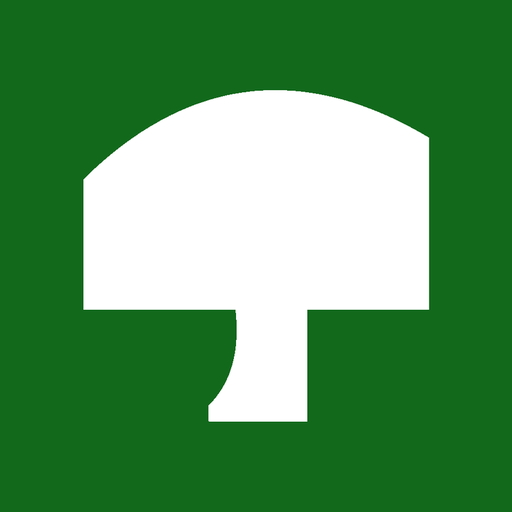
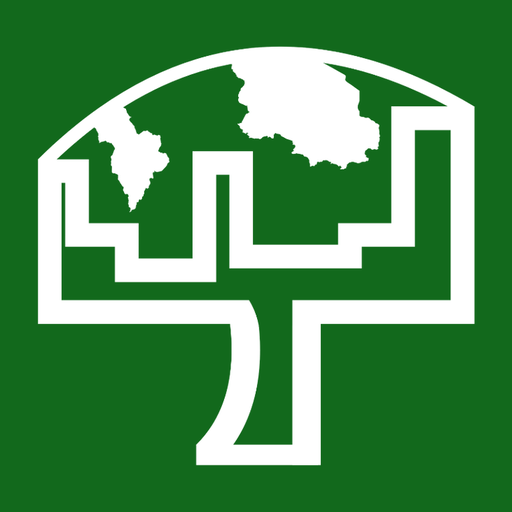
İkonu gerçek logoya döndür, kapağı bir üst seviyeye çıkar
İkon:
- Sekme ikonunu sadeleştirilmiş siluete çevirmiştim; navbar'daki detaylı
  logoyla yan yana iki farklı marka gibi duruyordu. Artık tüm boyutlar
  gerçek logodan üretiliyor (kadraja %96 oturtularak küçük boyutta da okunur).
- og-banner da aynı logoyla yenilendi.

Kapak:
- "Bizi tanıyın" kaldırıldı; tek ve net çağrı: Etkinliklerimiz
- Zeminde köşeden gelen ışık, ince film dokusu (grain) ve daha belirgin
  kontur çizgileri; düz gradyanın yapay görünümü kırıldı
- Lockup büyütüldü, tipografi sıkılaştırıldı
- Sırayla beliren giriş animasyonu ve kaydırma imi eklendi
- Animasyon .anim sınıfına bağlı: JS çalışmazsa içerik normal görünür

diff --git a/index.html b/index.html
@@ -28,94 +28,115 @@
  
 /* ── 1. KAPAK ──
    Marka bannerının dili: sola hizalı yatay lockup, akan kontur çizgileri,
-   sloganın çizgiyi delmesi. Ortalanmış şablon dizilimden bilinçli olarak kaçınıldı. */
+   sloganın çizgiyi delmesi. Ortalanmış şablon dizilimden bilinçli kaçınıldı. */
 .hero {
   position: relative; overflow: hidden;
   min-height: 100svh; display: flex; align-items: center;
-  padding: 130px 0 80px;
-  background: linear-gradient(158deg, #0d4a15 0%, #12691c 46%, #0e3d14 100%);
+  padding: 140px 0 96px;
+  background:
+    radial-gradient(120% 90% at 12% 8%, #1a7a24 0%, transparent 58%),
+    linear-gradient(158deg, #0d4a15 0%, #12691c 46%, #0b3811 100%);
 }
 .hero-lines { position: absolute; inset: 0; width: 100%; height: 100%; pointer-events: none; }
-/* Alt kenarda sitenin koyu zeminine yumuşak geçiş */
+.hero-grain {
+  position: absolute; inset: 0; width: 100%; height: 100%;
+  opacity: 0.16; mix-blend-mode: overlay; pointer-events: none;
+}
 .hero::after {
-  content: ''; position: absolute; left: 0; right: 0; bottom: 0; height: 190px;
+  content: ''; position: absolute; left: 0; right: 0; bottom: 0; height: 200px;
   background: linear-gradient(180deg, rgba(26,34,33,0) 0%, #1a2221 100%);
   pointer-events: none;
 }
-/* .hero bir flex kapsayıcı; genişlik verilmezse içeriğe göre daralıp ortalanıyor */
 .hero-inner { position: relative; z-index: 2; width: 100%; text-align: left; }
 
+/* Sırayla beliren giriş animasyonu */
+/* Animasyon yalnızca .anim sınıfı eklendiğinde çalışır.
+   JS çalışmazsa veya animasyon desteklenmezse içerik normal görünür. */
+.hero.anim .rise { animation: rise .9s cubic-bezier(.22,.75,.28,1) both; animation-delay: var(--d, 0s); }
+@keyframes rise {
+  from { opacity: 0; transform: translateY(18px); }
+  to   { opacity: 1; transform: none; }
+}
+@media (prefers-reduced-motion: reduce) {
+  .hero.anim .rise { animation: none; }
+}
+
 /* Yatay lockup */
-.hero-lockup { display: flex; align-items: center; gap: clamp(20px, 3vw, 40px); }
+.hero-lockup { display: flex; align-items: center; gap: clamp(20px, 3vw, 44px); }
 .hero-mark {
-  width: clamp(96px, 12vw, 168px); height: auto; flex-shrink: 0;
-  filter: drop-shadow(0 8px 24px rgba(0,0,0,0.28));
+  width: clamp(100px, 13vw, 186px); height: auto; flex-shrink: 0;
+  filter: drop-shadow(0 10px 30px rgba(0,0,0,0.3));
 }
 .hero-wordmark {
   display: flex; flex-direction: column;
   font-family: 'Outfit', sans-serif;
-  font-size: clamp(26px, 4.4vw, 54px);
-  font-weight: 800; line-height: 1.0;
-  letter-spacing: -0.02em; text-transform: uppercase; color: #fff;
+  font-size: clamp(27px, 4.8vw, 60px);
+  font-weight: 800; line-height: 0.98;
+  letter-spacing: -0.025em; text-transform: uppercase; color: #fff;
 }
 .hero-wordmark .wm-sm {
-  font-weight: 400; letter-spacing: 0.14em;
-  font-size: 0.46em; margin-bottom: 0.28em; opacity: 0.9;
+  font-weight: 400; letter-spacing: 0.16em;
+  font-size: 0.42em; margin-bottom: 0.34em; opacity: 0.88;
 }
 
 /* Sloganın çizgiyi deldiği şerit */
 .hero-rule {
-  display: flex; align-items: center; gap: 0;
-  margin: clamp(30px, 4vw, 48px) 0 clamp(34px, 4.5vw, 52px);
+  display: flex; align-items: center;
+  margin: clamp(34px, 4.4vw, 54px) 0 clamp(34px, 4.4vw, 50px);
   font-family: 'Montserrat', sans-serif;
   font-size: clamp(11px, 1.15vw, 14px); font-weight: 700;
-  letter-spacing: 0.2em; text-transform: uppercase; color: #fff;
+  letter-spacing: 0.22em; text-transform: uppercase; color: #fff;
 }
 .hero-rule::before, .hero-rule::after,
 .hero-rule span + span::before {
   content: ''; flex: 1 1 auto; height: 1px;
-  background: rgba(255,255,255,0.4); min-width: 18px;
+  background: rgba(255,255,255,0.42); min-width: 18px;
 }
-.hero-rule span { padding: 0 clamp(12px, 1.6vw, 22px); white-space: nowrap; }
+.hero-rule span { padding: 0 clamp(12px, 1.7vw, 24px); white-space: nowrap; }
 .hero-rule span + span { display: flex; align-items: center; }
 
-
-.hero-links { display: flex; align-items: center; gap: 28px; flex-wrap: wrap; margin-bottom: 44px; }
+.hero-links { margin-bottom: clamp(38px, 4.5vw, 54px); }
 .hero-cta {
-  display: inline-flex; align-items: center; gap: 10px;
+  display: inline-flex; align-items: center; gap: 12px;
   background: #fff; color: #0b3311;
   font-family: 'Montserrat', sans-serif;
   font-size: clamp(15px, 1.35vw, 17px); font-weight: 800; letter-spacing: 0.02em;
-  padding: 19px 44px; border-radius: 4px;
-  box-shadow: 0 14px 34px rgba(0,0,0,0.28);
-  transition: all 0.25s ease;
+  padding: 19px 46px; border-radius: 4px;
+  box-shadow: 0 16px 38px rgba(0,0,0,0.3);
+  transition: all 0.28s cubic-bezier(.22,.75,.28,1);
 }
-.hero-cta::after { content: '→'; font-size: 1.05em; transition: transform 0.25s ease; }
-.hero-cta:hover::after { transform: translateX(4px); }
-.hero-cta:hover { background: var(--accent); transform: translateY(-2px); }
-.hero-alt {
-  font-family: 'Montserrat', sans-serif;
-  font-size: clamp(14px, 1.2vw, 15.5px); font-weight: 700; color: #fff;
-  border-bottom: 2px solid rgba(255,255,255,0.5);
-  padding-bottom: 4px; transition: all 0.25s ease;
-}
-.hero-alt:hover { border-color: #fff; opacity: 0.85; }
+.hero-cta::after { content: '→'; font-size: 1.05em; transition: transform 0.28s ease; }
+.hero-cta:hover { transform: translateY(-3px); box-shadow: 0 22px 46px rgba(0,0,0,0.36); }
+.hero-cta:hover::after { transform: translateX(5px); }
 
-/* Zirve: camsı kart değil, sade bir satır */
+/* Zirve: sade bir satır */
 .hero-summit {
-  display: inline-flex; align-items: baseline; gap: 10px;
-  font-family: 'Outfit', sans-serif; font-size: clamp(14px, 1.4vw, 17px);
+  display: inline-flex; align-items: baseline; gap: 11px;
+  font-family: 'Outfit', sans-serif; font-size: clamp(14px, 1.4vw, 18px);
   font-weight: 600; color: #fff;
-  padding-top: 20px; border-top: 1px solid rgba(255,255,255,0.22);
-  transition: 0.25s;
+  padding-top: 22px; border-top: 1px solid rgba(255,255,255,0.24);
+  transition: 0.28s;
 }
 .hero-summit-yil {
   font-family: 'Montserrat', sans-serif; font-size: 11px; font-weight: 600;
-  letter-spacing: 0.16em; text-transform: uppercase; color: rgba(255,255,255,0.6);
+  letter-spacing: 0.18em; text-transform: uppercase; color: rgba(255,255,255,0.62);
 }
-.hero-summit-ok { transition: transform 0.25s ease; }
-.hero-summit:hover { border-color: rgba(255,255,255,0.6); }
-.hero-summit:hover .hero-summit-ok { transform: translateX(5px); }
+.hero-summit-ok { transition: transform 0.28s ease; }
+.hero-summit:hover { border-color: rgba(255,255,255,0.65); }
+.hero-summit:hover .hero-summit-ok { transform: translateX(6px); }
+
+/* Kaydırma imi */
+.hero-scroll {
+  position: absolute; left: 50%; bottom: 30px; transform: translateX(-50%);
+  z-index: 3; width: 24px; height: 38px; border-radius: 14px;
+  border: 1.5px solid rgba(255,255,255,0.35);
+  display: flex; justify-content: center; padding-top: 7px;
+}
+.hero-scroll span {
+  width: 3px; height: 7px; border-radius: 3px; background: rgba(255,255,255,0.8);
+  animation: scrollDot 1.9s ease-in-out infinite;
+}
+@keyframes scrollDot { 0%,100% { transform: translateY(0); opacity: 1; } 55% { transform: translateY(10px); opacity: .25; } }
 
 /* STANDART BÖLÜMLER */
 .section-main { padding-top: 120px; padding-bottom: 80px; text-align: center; }
@@ -158,9 +179,10 @@
   .hero-wordmark { font-size: 25px; }
   .hero-rule { margin: 26px 0 30px; font-size: 10px; letter-spacing: 0.13em; }
   .hero-rule span { padding: 0 9px; }
-  .hero-links { gap: 20px; margin-bottom: 32px; }
-  .hero-cta { padding: 17px 30px; font-size: 14.5px; }
+  .hero-links { margin-bottom: 34px; }
+  .hero-cta { padding: 17px 32px; font-size: 14.5px; }
   .hero-summit { font-size: 15px; padding-top: 18px; }
+  .hero-scroll { display: none; }
  
   /* ------------------------------------------------------------- */
   /* İŞTE DÜZELTİLEN YERLER: BAŞLIK YUKARI ÇIKTI, KUTU DARALDI! */
@@ -246,21 +268,26 @@
 <section class="hero">
   <!-- Marka bannerındaki akan kontur çizgileri -->
   <svg class="hero-lines" viewBox="0 0 1440 900" preserveAspectRatio="xMidYMid slice" aria-hidden="true">
-    <g fill="none" stroke="#ffffff" stroke-opacity="0.17" stroke-width="1.6">
-      <path d="M-60 210 C 260 120, 520 300, 800 215 S 1280 90, 1520 195"/>
-      <path d="M-60 270 C 250 180, 530 360, 810 272 S 1290 148, 1520 252"/>
-      <path d="M-60 332 C 240 244, 540 420, 820 330 S 1300 206, 1520 310"/>
-      <path d="M-60 398 C 230 310, 550 482, 830 392 S 1310 268, 1520 372"/>
-      <path d="M-60 468 C 220 380, 560 548, 840 458 S 1320 334, 1520 438"/>
-      <path d="M-60 542 C 210 454, 570 618, 850 528 S 1330 404, 1520 508"/>
-      <path d="M-60 620 C 200 532, 580 692, 860 602 S 1340 478, 1520 582"/>
-      <path d="M-60 702 C 190 614, 590 770, 870 680 S 1350 556, 1520 660"/>
+    <g fill="none" stroke="#ffffff" stroke-opacity="0.16" stroke-width="1.5">
+      <path d="M-60 190 C 260 100, 520 280, 800 195 S 1280 70, 1520 175"/>
+      <path d="M-60 252 C 250 162, 530 342, 810 254 S 1290 130, 1520 234"/>
+      <path d="M-60 316 C 240 228, 540 404, 820 314 S 1300 190, 1520 294"/>
+      <path d="M-60 384 C 230 296, 550 468, 830 378 S 1310 254, 1520 358"/>
+      <path d="M-60 456 C 220 368, 560 536, 840 446 S 1320 322, 1520 426"/>
+      <path d="M-60 532 C 210 444, 570 608, 850 518 S 1330 394, 1520 498"/>
+      <path d="M-60 612 C 200 524, 580 684, 860 594 S 1340 470, 1520 574"/>
+      <path d="M-60 696 C 190 608, 590 764, 870 674 S 1350 550, 1520 654"/>
+      <path d="M-60 784 C 180 696, 600 846, 880 756 S 1360 632, 1520 736"/>
     </g>
+  </svg>
+  <!-- İnce doku: düz zeminin dijital/yapay görünmesini kırar -->
+  <svg class="hero-grain" aria-hidden="true">
+    <filter id="hg"><feTurbulence type="fractalNoise" baseFrequency="0.85" numOctaves="3"/></filter>
+    <rect width="100%" height="100%" filter="url(#hg)"/>
   </svg>
 
   <div class="container hero-inner">
-    <!-- Logonun yatay kilidi: işaret solda, ad sağda -->
-    <div class="hero-lockup">
+    <div class="hero-lockup rise" style="--d:.05s">
       <img class="hero-mark" src="logo-mark.png" alt="ODTÜ Çevre Mühendisliği Topluluğu">
       <h1 class="hero-wordmark">
         <span class="wm-sm">ODTÜ</span>
@@ -270,23 +297,24 @@
       </h1>
     </div>
 
-    <!-- Bannerdaki "çizgiyi delen kelimeler" motifi -->
-    <div class="hero-rule">
+    <div class="hero-rule rise" style="--d:.18s">
       <span>Innovate</span><span>Connect</span><span>Sustain</span>
     </div>
 
-    <div class="hero-links">
-      <a href="/hakkimizda" class="hero-cta">Bizi tanıyın</a>
-      <a href="/etkinlikler" class="hero-alt">Etkinliklerimiz</a>
+    <div class="hero-links rise" style="--d:.3s">
+      <a href="/etkinlikler" class="hero-cta">Etkinliklerimiz</a>
     </div>
 
-    <a href="https://cevreningelecegi.com" target="_blank" rel="noopener" class="hero-summit">
+    <a href="https://cevreningelecegi.com" target="_blank" rel="noopener" class="hero-summit rise" style="--d:.4s">
       <span class="hero-summit-yil">Her yıl</span>
       Çevrenin Geleceği Zirvesi
       <span class="hero-summit-ok" aria-hidden="true">→</span>
     </a>
   </div>
+
+  <a href="#hakkimizda" class="hero-scroll" aria-label="Aşağı kaydır"><span></span></a>
 </section>
+<script>document.currentScript.previousElementSibling.classList.add('anim');</script>
  
 <!-- 2. ODTÜ ÇEMÜT BİZ KİMİZ -->
 <section id="hakkimizda" class="section-main container">
